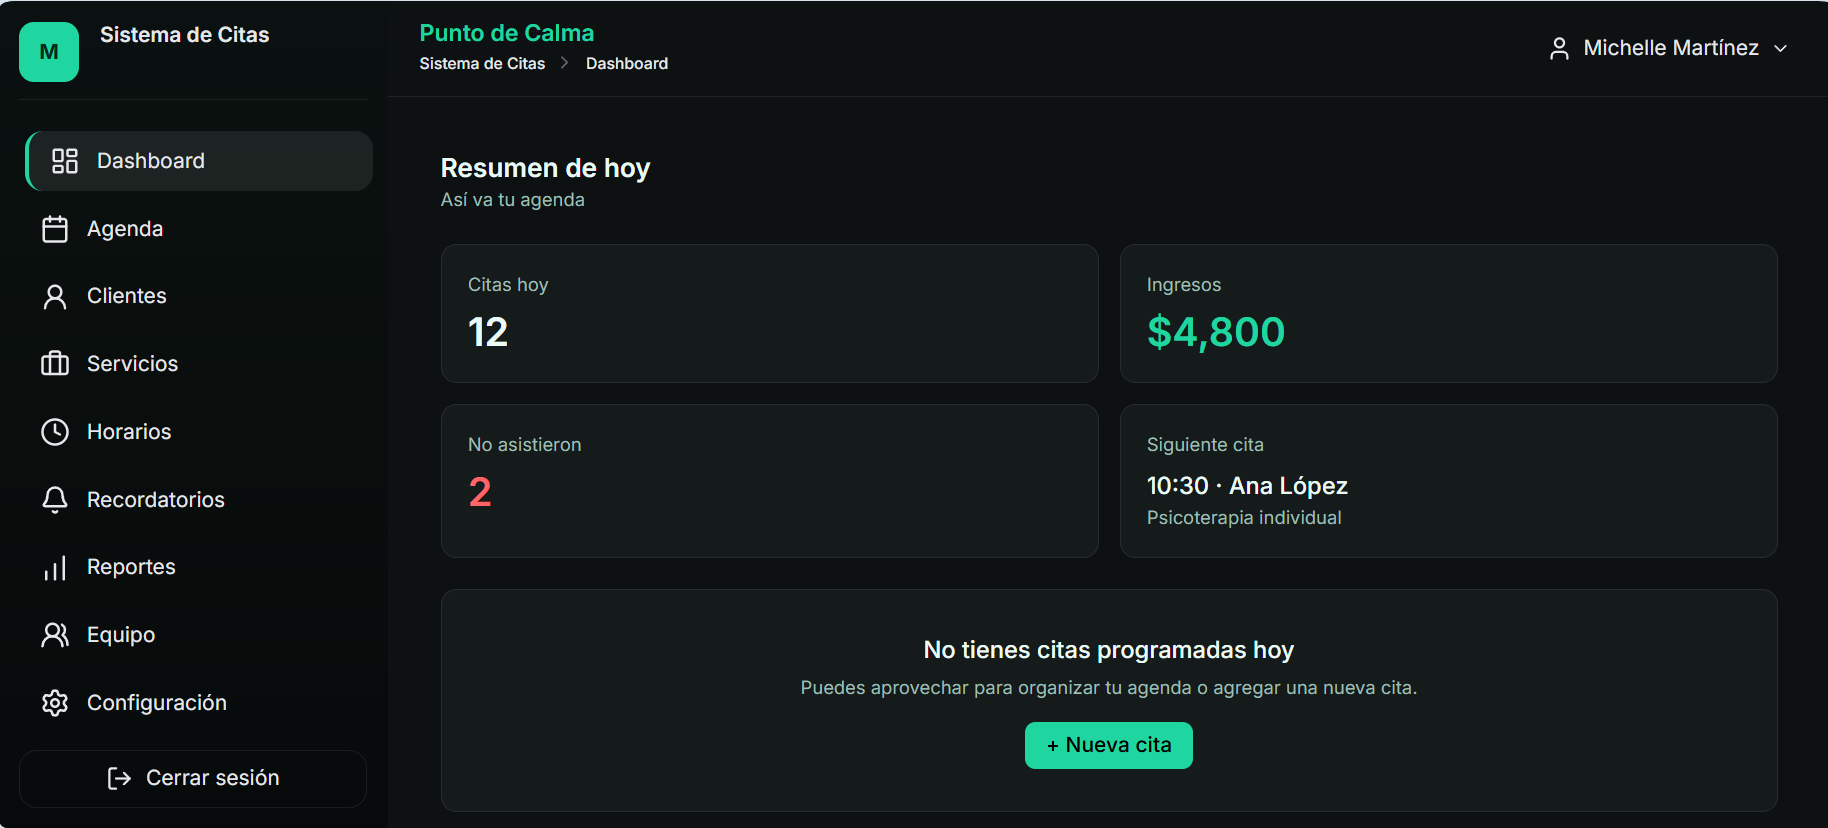
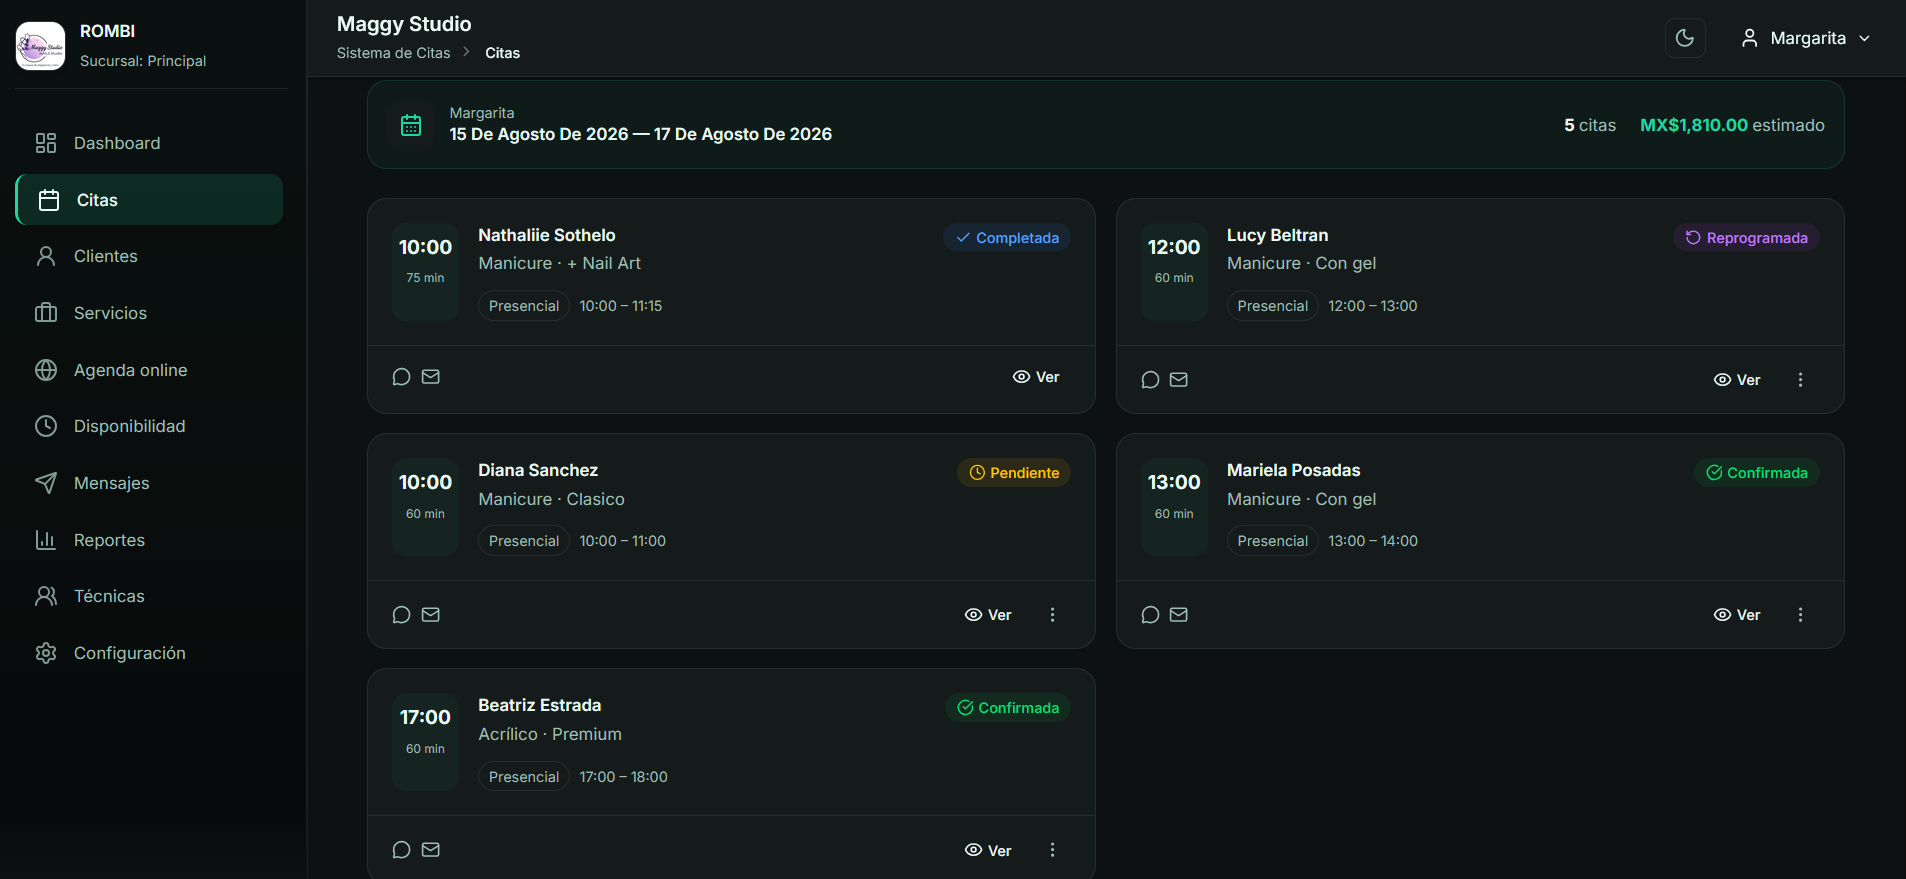
ROMBI FINISH V1

diff --git a/src/app/booking/pages/home/home.html b/src/app/booking/pages/home/home.html
@@ -916,11 +916,31 @@ text-white">
 
                                     @if(feature.limit_type === 'quantity') {
 
+                                    @if(feature.key === 'services'){
+
+                                    @if(plan.key === 'free'){
+                                    <span class="text-gray-500 text-sm">
+
+                                        · {{ feature.limit }} servicios con hasta 3 variantes cada uno
+
+                                    </span>
+                                    }
+                                    @if(plan.key === 'basic'){
+                                    <span class="text-gray-500 text-sm">
+
+                                        · {{ feature.limit }} servicios con hasta 10 variantes cada uno
+
+                                    </span>
+                                    }
+
+                                    } @else{
+
                                     <span class="text-gray-500 text-sm">
 
                                         · hasta {{ feature.limit }}
 
                                     </span>
+                                    }
 
                                     }
 

diff --git a/src/app/booking/pages/booking-page/booking-page.html b/src/app/booking/pages/booking-page/booking-page.html
@@ -19,13 +19,16 @@
         <div class="max-w-6xl mx-auto px-4 py-3 flex items-center gap-3">
 
             <!-- LOGO -->
-            <div class="w-10 h-10 rounded-xl overflow-hidden border border-slate-100 shrink-0">
+            <div class="h-12 w-12 shrink-0 overflow-hidden rounded-xl border border-slate-100 sm:h-16 sm:w-16">
 
                 @if(header?.logoUrl){
-                <img [src]="header?.logoUrl" class="w-full h-full object-cover">
-                }@else{
-                <div class="w-full h-full flex items-center justify-center" [style.background]="nicheColor + '15'">
-                    <lucide-icon [img]="nicheIcon" size="18" [style.color]="nicheColor"></lucide-icon>
+                <img [src]="header?.logoUrl" class="h-full w-full object-cover">
+                } @else {
+                <div class="flex h-full w-full items-center justify-center" [style.background]="nicheColor + '15'">
+
+                    <lucide-icon [img]="nicheIcon" size="18" [style.color]="nicheColor">
+                    </lucide-icon>
+
                 </div>
                 }
 

diff --git a/src/app/booking/pages/booking-page/components/customer-form/customer-form.ts b/src/app/booking/pages/booking-page/components/customer-form/customer-form.ts
@@ -71,7 +71,7 @@ export class CustomerForm implements OnInit {
     this.form = this.fb.group({
 
       first_name: [
-        'Omar',
+        '',
         [
           Validators.required,
           Validators.minLength(2),
@@ -80,14 +80,14 @@ export class CustomerForm implements OnInit {
       ],
 
       last_name: [
-        'Escobar',
+        '',
         [
           Validators.maxLength(100)
         ]
       ],
 
       email: [
-        'omar.lawliet90@gmail.com',
+        '',
         [
           Validators.required,
           Validators.email,
@@ -95,18 +95,18 @@ export class CustomerForm implements OnInit {
         ]
       ],
 
-      /*phone: [
-        null,
-        Validators.required
-      ],*/
-
       phone: [
-        '7702021345',
+        null,
         Validators.required
       ],
 
+      /*phone: [
+        '7702021345',
+        Validators.required
+      ],*/
+
       notes: [
-        'Es una prueba desde booking-publico',
+        '',
         Validators.maxLength(500)
       ]
 

diff --git a/src/app/booking/pages/booking-manage/booking-manage.ts b/src/app/booking/pages/booking-manage/booking-manage.ts
@@ -119,7 +119,7 @@ export class BookingManage implements OnInit {
   ];
 
   // Reagendar
-  isInRescheduleMode = false; // Selecto de fecha
+  isInRescheduleMode = false; // Selector de fecha
 
   isSavingReschedule = false; // Modal de confirmación
 
@@ -408,7 +408,7 @@ export class BookingManage implements OnInit {
 
         next: (res) => {
 
-          //console.log('dataBackend :', JSON.stringify(res, null, 2));
+          //console.log('dataCita:', JSON.stringify(res, null, 2));
 
           if (res.status === 'not_found') {
 
@@ -681,7 +681,6 @@ export class BookingManage implements OnInit {
 
     };
 
-    console.log('payload:', JSON.stringify(payload, null, 2));
 
 
     this.isSavingReschedule = true;

diff --git a/src/app/core/services/subscription.service.ts b/src/app/core/services/subscription.service.ts
@@ -12,7 +12,8 @@ export class SubscriptionService {
 
   getPlans(subsystem: string): Observable<any> {
     return this.api.get<any>(
-      `v1/public/plans?subsystem=${subsystem}`
+      //`v1/public/plans?subsystem=${subsystem}`
+      `v1/public-booking/plans?subsystem=${subsystem}`
     );
   }
 

diff --git a/src/app/booking/pages/booking-page/components/service-selector/service-selector.html b/src/app/booking/pages/booking-page/components/service-selector/service-selector.html
@@ -822,6 +822,8 @@ cursor-pointer
                     shadow-lg
                     bg-slate-100">
 
+                    
+
                     @if(staffProfile.avatar){
 
                     <img [src]="staffProfile.avatar" class="w-full h-full object-cover">

diff --git a/src/app/booking/pages/booking-page/booking-page.ts b/src/app/booking/pages/booking-page/booking-page.ts
@@ -754,7 +754,6 @@ export class BookingPage implements OnInit {
 
     };
 
-    console.log('payloadEnviar:', JSON.stringify(payload, null, 2));
 
 
     this.loading.start(
